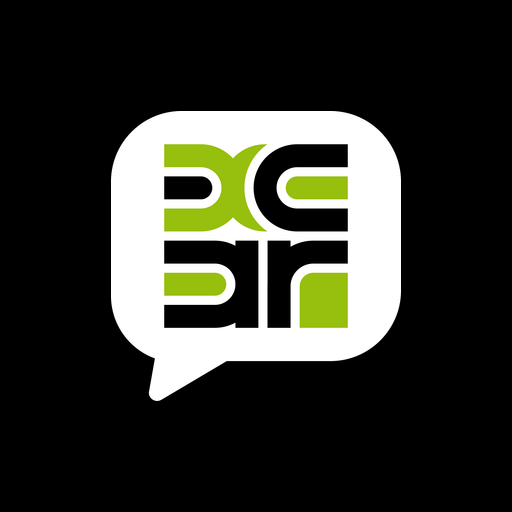
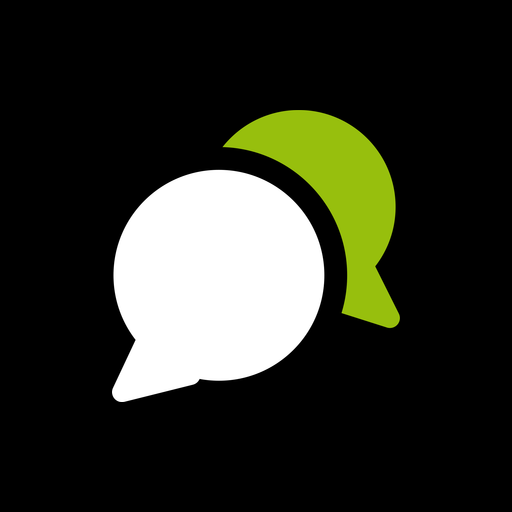
XCAR Chat: без шапки и таб-бара, профиль аватаром у «Чатов»; иконка — значок «Чаты» таб-бара; шторка сделки без заголовка, сразу сделка менеджера

Changed region(s): [[0.2188, 0.1875, 0.7812, 0.75], [0.2188, 0.6562, 0.375, 0.7812]]

diff --git a/resources/css/app.css b/resources/css/app.css
@@ -241,10 +241,12 @@ html.has-action { --action: 1; }
 /* Партнёр (08.11.2026, владелец: «шапка и лого тут не нужны»): шапки и таб-бара нет — верх у самого выреза, низ у края. */
 body.surface-partner { --header-edge: var(--safe-top); --stick-top: var(--safe-top); --tabbar: 0px; --bottom-edge: 0px; --bottom-room: calc(var(--action) * var(--spacing-action)); --page-room: var(--bottom-room); }
 @media (min-width: 768px) { body.surface-partner { --bottom-room: calc(var(--action) * 6rem); --page-room: var(--bottom-room); } }
+/* XCAR Chat (20.11.2026, владелец: «шапку надо убрать полностью»): ни шапки, ни таб-бара, как у партнёра. */
+body.surface-chat { --header-edge: var(--safe-top); --stick-top: var(--safe-top); --tabbar: 0px; --bottom-edge: 0px; --bottom-room: calc(var(--action) * var(--spacing-action)); }
 /* Страница во фрейме шторки сделки XCAR Chat (20.11.2026, `x-chat.deal-sheet`): своё приложение вокруг уже есть — ни шапки,
    ни таб-бара, ни подвала; верх и низ у краёв шторки. Класс ставит `x-ui.layout` до отрисовки, когда окно — не верхнее. */
 html.is-embedded body { --safe-top: 0px; --header-edge: 0px; --stick-top: 0px; --tabbar: 0px; --bottom-edge: 0px; --home-gap: 0px; }
-html.is-embedded .header, html.is-embedded #tabbar, html.is-embedded .footer, html.is-embedded .impersonation { display: none !important; }
+html.is-embedded .header, html.is-embedded #tabbar, html.is-embedded .footer, html.is-embedded .impersonation, html.is-embedded .back-title { display: none !important; }
 /* На телефоне в шторке — блоки от края до края, без полей по бокам (20.11.2026, владелец); вложенный блок — как был. */
 @media (max-width: 639.98px) {
   html.is-embedded .container-site .box { margin-inline: -1rem; border-radius: 0; }
@@ -4401,6 +4403,13 @@ html.kb-open { --home-gap: 0px; }
   /* Шторка сделки XCAR Chat: фрейм во всё место под строкой заголовка, края — у шторки. */
   .sheet-deal[open] { display: flex; flex-direction: column; overflow: hidden; }
   .sheet-deal .sheet-bar { flex: none; margin-bottom: .75rem; }
+  /* На ПК — узкая полоса с одним крестиком справа (поверх страницы он закрывал её кнопки), фрейм — от края до края. */
+  @media (min-width: 640px) {
+    .sheet-deal[open] { padding: 0; }
+    /* Селекторы сильнее общих: сборка CSS ставит медиа-блок выше них. */
+    .sheet-deal[open] .sheet-bar { margin: 0; padding: .375rem .5rem; justify-content: flex-end; }
+    .sheet-deal[open] .deal-frame { width: 100%; margin: 0; }
+  }
   .sheet-deal .deal-frame { flex: 1 1 auto; min-height: 0; width: calc(100% + 2.5rem); margin: 0 -1.25rem calc(-1 * var(--sheet-pad-b)); border: 0; background: var(--color-ground); }
   @media (min-width: 640px) { .sheet-deal.sheet-tall { max-width: 64rem; height: calc(100dvh - 4rem); } }
   .header > div { position: relative; }
@@ -4582,7 +4591,7 @@ html.kb-open { --home-gap: 0px; }
      Над листом таб-бар и в движении листа: уезжающий вниз лист проходит под ним, а не по нему. */
   @media (max-width: 767.98px) {
     body.app-shell { --tabbar-edge: var(--tabbar); }
-    body.app-shell.surface-partner, html.kb-open body.app-shell { --tabbar-edge: 0px; }
+    body.app-shell.surface-partner, body.app-shell.surface-chat, html.kb-open body.app-shell { --tabbar-edge: 0px; }
     html.detail-open .tabbar { z-index: calc(var(--z-panel) + 1); }
   }
   /* Клавиатура стоит — бара нет, без движения: на iOS он и так под ней (visibility — колонка не пересчитывается, длинный

diff --git a/resources/views/partner/me.blade.php b/resources/views/partner/me.blade.php
@@ -1,4 +1,5 @@
-{{-- Аватар поставщика в ряду заголовка (08.11.2026: шапки у партнёра нет): меню — кто он и чей, «Профиль», тема, «Выйти». --}}
+{{-- Аватар поставщика в ряду заголовка (08.11.2026: шапки у партнёра нет): меню — кто он и чей, «Профиль», тема, «Выйти».
+     Тот же — у «Чатов» XCAR Chat (20.11.2026), там шапки тоже нет. --}}
 @php $me = auth()->user(); @endphp
 <div class="contents" data-controller="menu">
     <button type="button" class="btn btn-s btn-quiet btn-round shrink-0 !p-0" data-action="menu#toggle" aria-haspopup="menu" aria-controls="partner-me" aria-label="{{ $me->name }}">
@@ -13,6 +14,8 @@
         </div>
         <div class="menu-group">
             <a href="/account" class="menu-item" role="menuitem"><x-ui.icon name="user" class="size-5 text-ink-muted"/>Профиль</a>
+            {{-- В XCAR Chat — и уведомления: какие темы и куда (пуш, Telegram). --}}
+            @if (\App\Support\Surface::current() === \App\Support\Surface::Chat)<a href="/account/notifications" class="menu-item" role="menuitem"><x-ui.icon name="bell" class="size-5 text-ink-muted"/>Уведомления</a>@endif
             <button type="button" class="menu-item" role="menuitem" data-controller="theme" data-action="theme#toggle"><x-ui.icon name="sun" class="on-light size-5 text-ink-muted"/><x-ui.icon name="moon" class="on-dark size-5 text-ink-muted"/>Тема</button>
             <form method="post" action="/logout" class="contents">@csrf<button type="submit" class="menu-item" role="menuitem"><x-ui.icon name="exit" class="size-5 text-ink-muted"/>Выйти</button></form>
         </div>

diff --git a/resources/views/admin/chats/index.blade.php b/resources/views/admin/chats/index.blade.php
@@ -13,7 +13,14 @@
 <x-ui.shell :title="$chat ? $chat->displayName() : 'Чаты'" :heading="false" :back="$chat ? ['Чаты', $base.$qs] : null" :back-row="false">
     {{-- Заголовок раздела (16.11.2026: «Чаты» — свой таб таб-бара CRM); открыт чат на телефоне — прячется. --}}
     <div class="chat-crm-top">
-        <h1 class="head-title text-xl sm:text-2xl">Чаты</h1>
+        {{-- XCAR Chat без шапки: профиль, тема и выход — аватаром справа (`partner.me`). Ряд — внутри: у `.chat-crm-top` свой
+             `display: none` в открытом чате на телефоне, утилита `flex` на нём его перебила бы. --}}
+        <div class="flex items-center justify-between gap-3">
+            <h1 class="head-title text-xl sm:text-2xl">Чаты</h1>
+            @if (\App\Support\Surface::current() === \App\Support\Surface::Chat)
+                @include('partner.me')
+            @endif
+        </div>
     </div>
     <div class="chat-split chat-split-crm mt-4 {{ $current ? 'has-current' : '' }}" data-controller="split">
         <div class="chat-rows" id="chat-rows">

diff --git a/resources/views/components/ui/header.blade.php b/resources/views/components/ui/header.blade.php
@@ -24,7 +24,8 @@
     $tools = $user && $surface !== \App\Support\Surface::Partner && $surface !== \App\Support\Surface::Chat;
     // Партнёру шапки нет вовсе (08.11.2026, владелец: «шапка и лого тут не нужны»): у вошедшего остаётся полоса под вырез
     // экрана (`--safe-top`, цвет строки состояния), раздел, профиль, тема и выход — в ряду заголовка (`partner.me`).
-    $bare = $user && $surface === \App\Support\Surface::Partner;
+    // XCAR Chat (20.11.2026, владелец: «шапку надо убрать полностью») — так же: аватар с меню — у заголовка «Чатов».
+    $bare = $user && ($surface === \App\Support\Surface::Partner || $surface === \App\Support\Surface::Chat);
 @endphp
 <header id="header" class="header">
     {{-- Состояние связи — полоса по нижнему краю шапки, вне раскладки (05.11.2026, владелец: надпись «Соединение…» в ряду

diff --git a/resources/views/cabinet/chats.blade.php b/resources/views/cabinet/chats.blade.php
@@ -35,7 +35,14 @@
 <x-ui.shell :title="$current ? $name : 'Чаты'" :back="$current ? ['Чаты', $base] : false" :heading="false" :back-row="false">
     {{-- Заголовок раздела, как у «Чатов» CRM; открыт чат на телефоне — прячется (`body.chat-open`). --}}
     <div class="chat-crm-top">
-        <h1 class="head-title text-xl sm:text-2xl">Чаты</h1>
+        {{-- XCAR Chat без шапки: профиль, тема и выход — аватаром справа (`partner.me`). Ряд — внутри: у `.chat-crm-top` свой
+             `display: none` в открытом чате на телефоне, утилита `flex` на нём его перебила бы. --}}
+        <div class="flex items-center justify-between gap-3">
+            <h1 class="head-title text-xl sm:text-2xl">Чаты</h1>
+            @if (\App\Support\Surface::current() === \App\Support\Surface::Chat)
+                @include('partner.me')
+            @endif
+        </div>
     </div>
     @include('cabinet.chats-split')
 </x-ui.shell>

diff --git a/app/Support/Nav.php b/app/Support/Nav.php
@@ -99,7 +99,8 @@ final class Nav
 
         // XCAR Chat (20.11.2026): только чаты и профиль; что откуда, решает человек, а не хост (`Chat::staffView`).
         if ($surface === Surface::Chat) {
-            return $user ? [self::item('Чаты', Chat::ROOT, icon: 'chats') + ['own' => true]] : [];
+            // Капсулой в шапке ПК не рисуем: одна капсула на всю ширину — пустая полоса, раздел и так один.
+            return $user ? [self::item('Чаты', Chat::ROOT, icon: 'chats', capsule: false) + ['own' => true]] : [];
         }
 
         // Модератор: черновики, сделки и гараж вкладками «Предложений» (17.11.2026 — вся работа со сделками), почта по галке, чаты

diff --git a/resources/views/components/ui/shell.blade.php b/resources/views/components/ui/shell.blade.php
@@ -76,6 +76,7 @@
     @endif
     {{-- Новые лоты Мигторга черновиками — капсула сотрудникам CRM (админы и модераторы, тема `staff`). --}}
     @if (! $bare && auth()->user()?->isStaff() && \App\Support\Surface::current() === \App\Support\Surface::Crm)<x-migtorg.island/>@endif
-    @unless ($partner)<x-ui.tabbar/>@endunless
+    {{-- XCAR Chat — тоже без таб-бара: раздел один, профиль — аватаром у заголовка «Чатов». --}}
+    @unless ($partner || \App\Support\Surface::current() === \App\Support\Surface::Chat)<x-ui.tabbar/>@endunless
     @unless ($bare)<x-ui.toasts/>@endunless
 </x-ui.layout>
